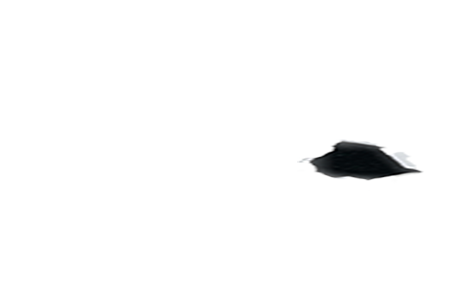
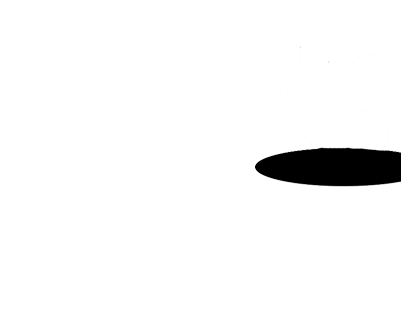
animation

Changed region(s): [[0.6284, 0.4523, 1.0, 0.6502]]

diff --git a/jquery1/orang berjalan.php b/jquery1/orang berjalan.php
@@ -13,8 +13,8 @@ $(document).ready(function(){
 		
 		for (i=0; i<25; i++){
 			$(this)<?php
-				for ($i = 1; $i <= 50; $i++){
-					echo ".animate({opacity:1.0, marginLeft:c+=1}, 100, function() {
+				for ($i = 1; $i <= 25; $i++){
+					echo ".animate({opacity:1.0, marginLeft:c+=5.5}, 100, function() {
 						$(this).css(\"background-image\", \"url('assets/images/b".$i.".png')\");
 					})";
 				}
